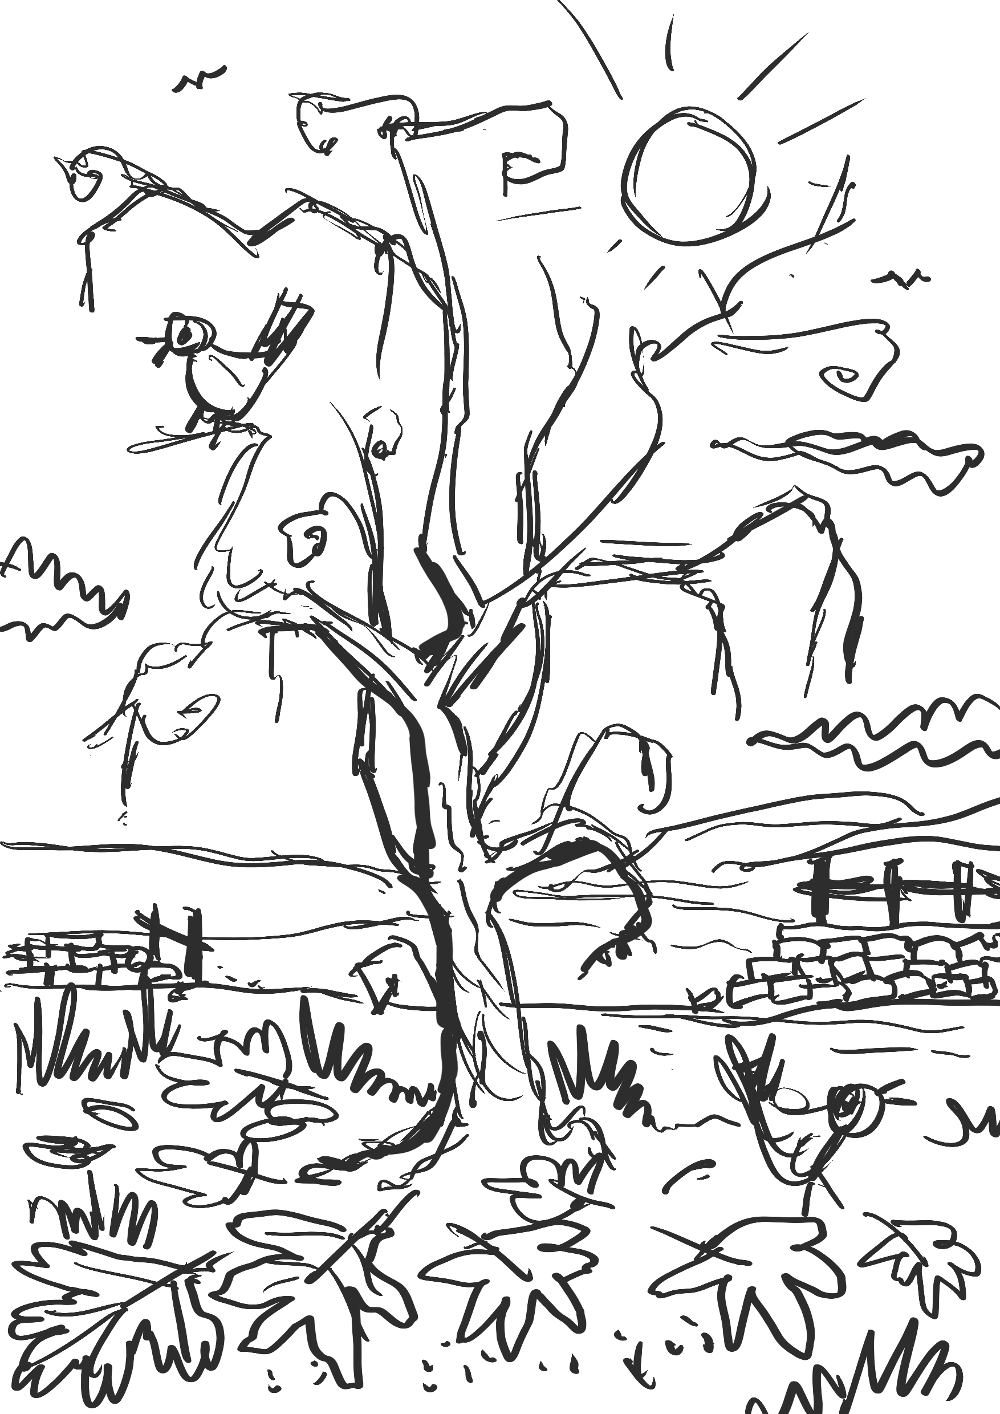
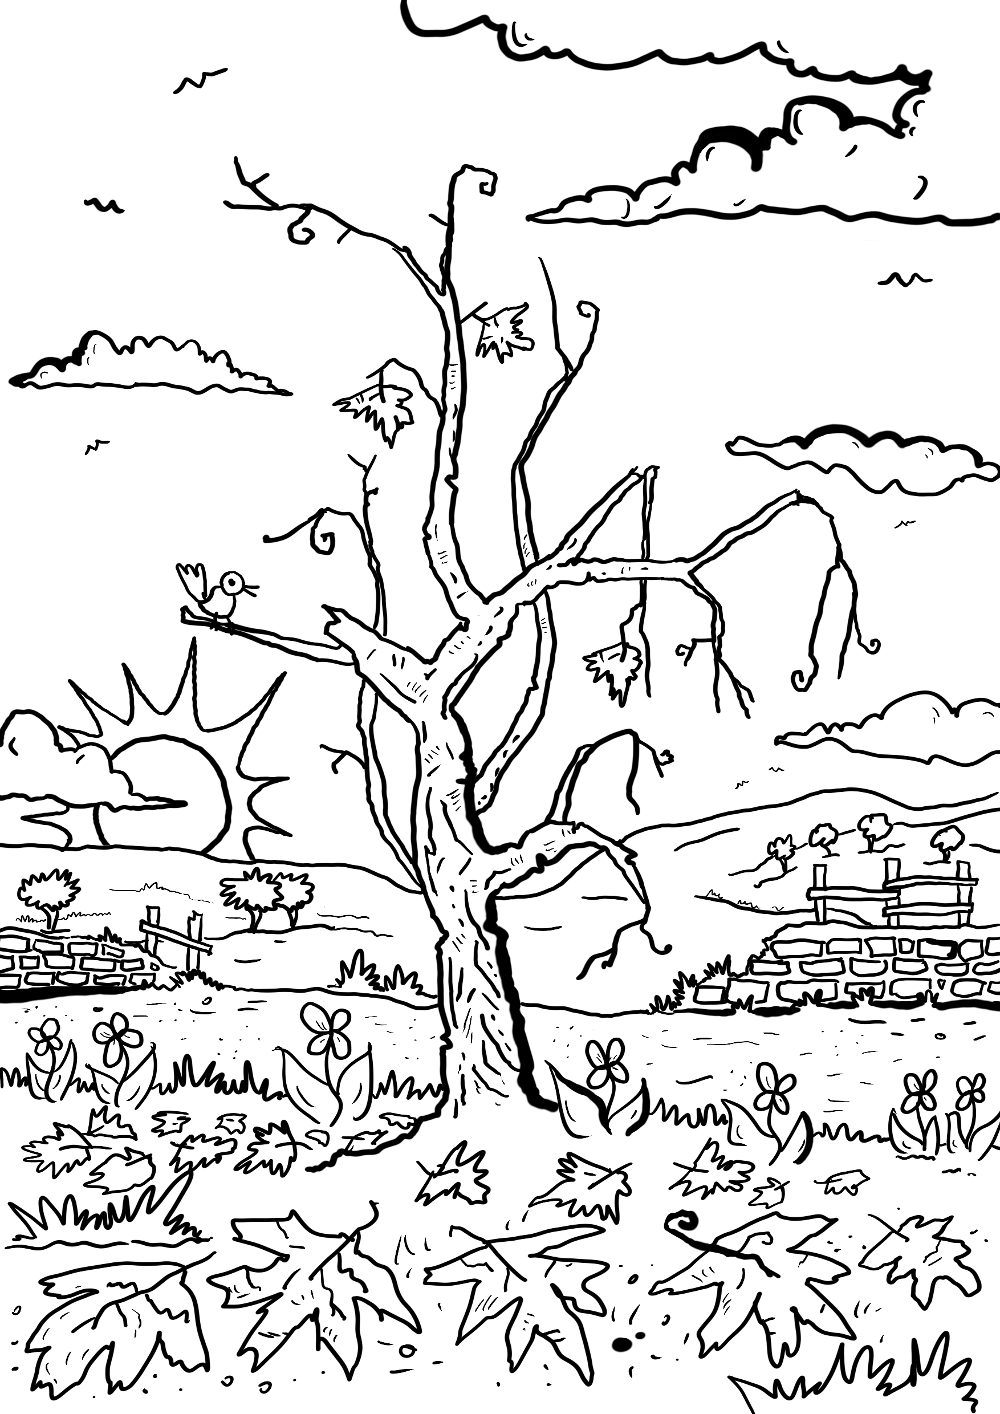
Update 33.

Changed region(s): [[0.0, 0.0, 1.0, 1.0], [0.992, 0.1245, 1.0, 0.1556], [0.186, 0.0311, 0.217, 0.0622]]

diff --git a/script.js b/script.js
@@ -3,7 +3,7 @@ angular.module('galleryApp', [])
     var gallery = this;
     gallery.language = "ro";
     gallery.work_start_date = new Date(2017,02,12);
-    gallery.worked_hours = 38;  // EDIT HERE
+    gallery.worked_hours = 39;  // EDIT HERE
 
     gallery.get_global_progress = function() {
       var index;
@@ -553,7 +553,7 @@ angular.module('galleryApp', [])
       {
         id: 33,
         img: '33.png',
-        done: 50,
+        done: 90,
         title: {
           ro: "Blestemarea smochinului",
           en: "Jesus curses the fig tree with no fruit"
